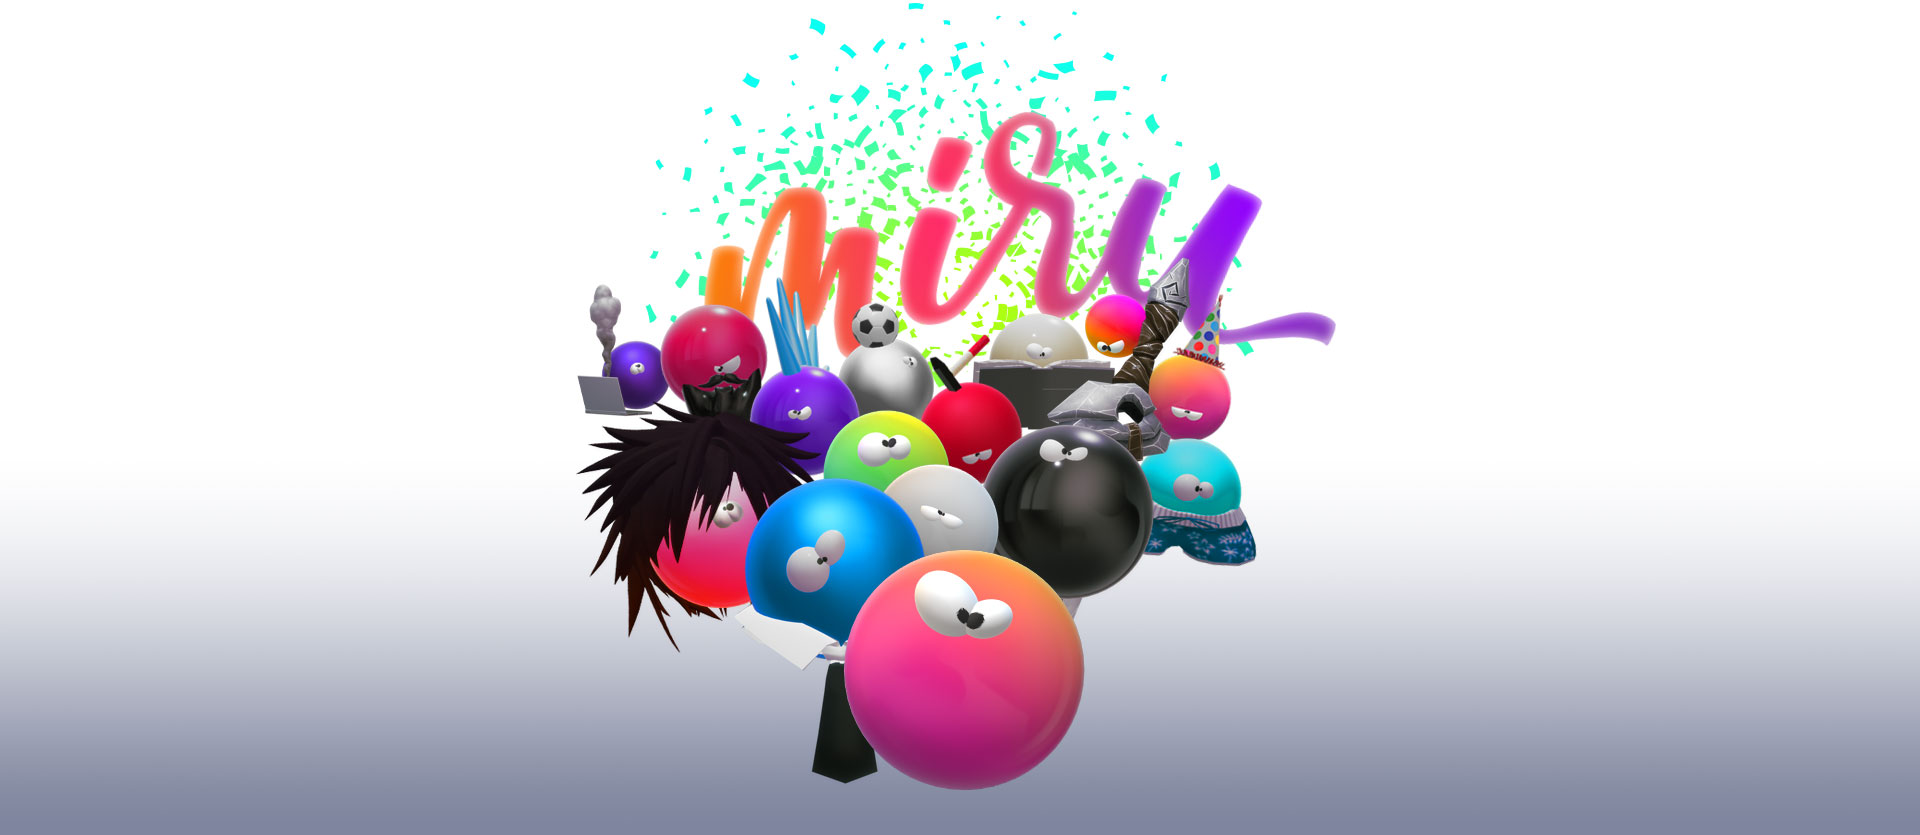
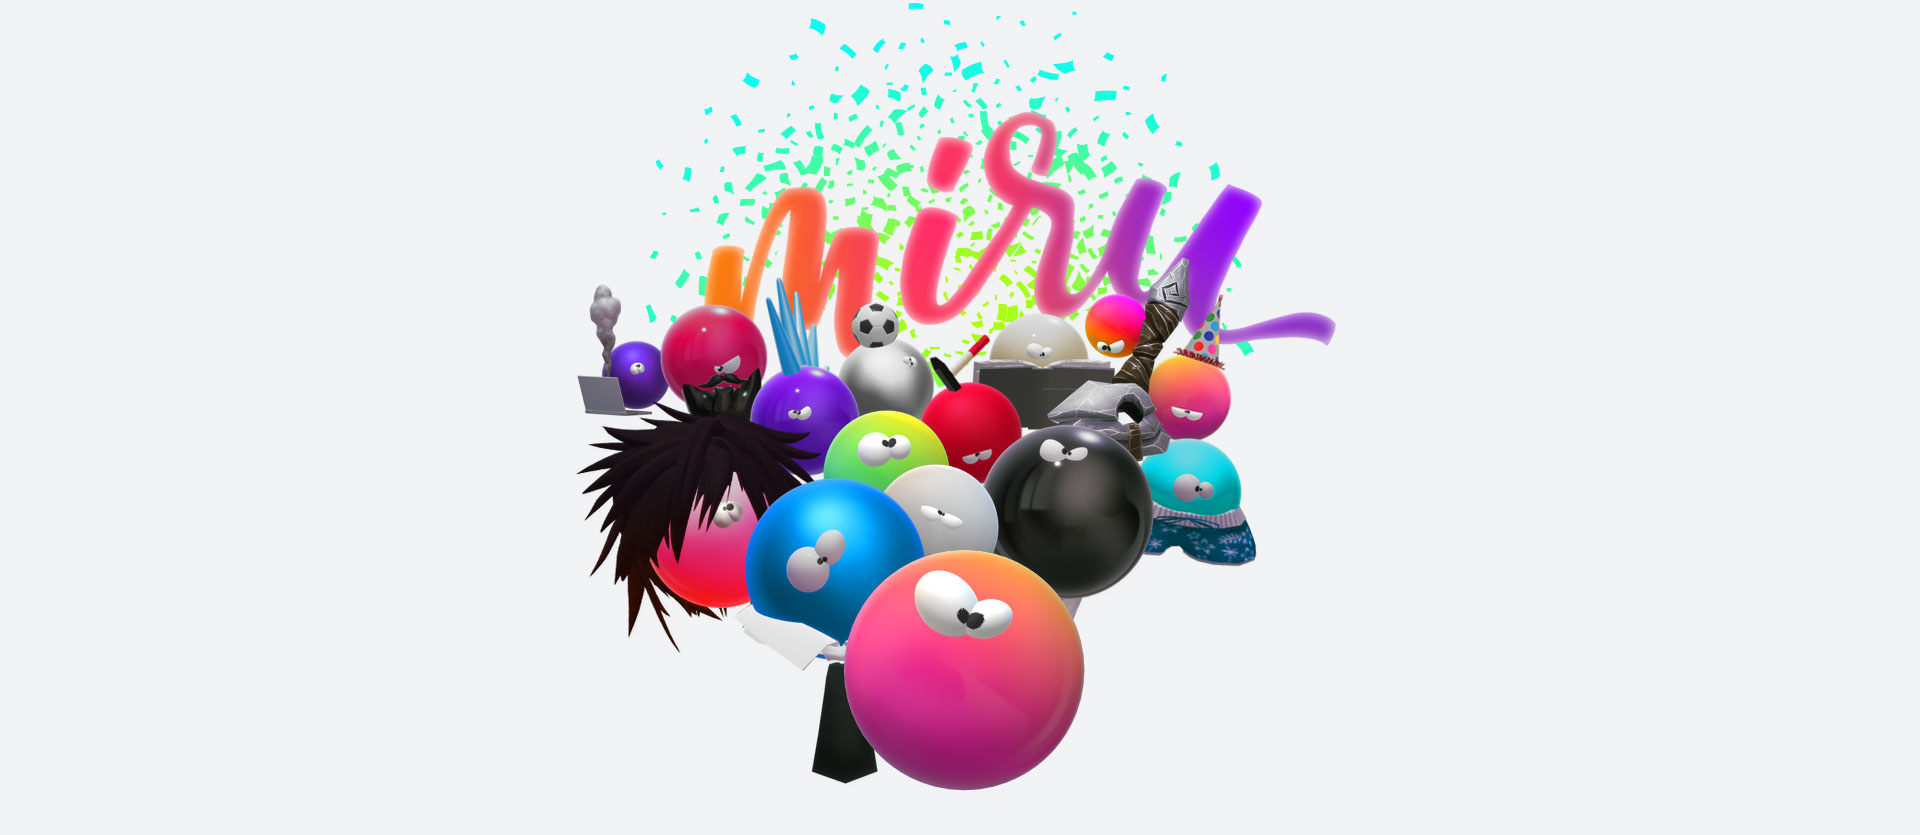
looq fixes + main fixes

Changed region(s): [[0.0, 0.7162, 1.0, 1.0]]

diff --git a/index.html b/index.html
@@ -106,19 +106,19 @@
 				<a id="section-ux" class="marker  -uxMarker"></a>
 
 				<a class="gallery-item" href="project/looq/index.html">
-					<img src="project/looq/cover.jpg" alt="qbee">
+					<img src="project/looq/cover.jpg" alt="looq">
 					<span class="overlay">
 						<h2>looq</h2>
 					</span>
-					<span class="bg" style="background-color:#fff;"></span>
+					<span class="bg" style="background-color:#f8f8fa;"></span>
 				</a>
 
 				<a class="gallery-item" href="project/aerolite/index.html">
-					<img src="project/aerolite/cover.jpg" alt="qbee">
+					<img src="project/aerolite/cover.jpg" alt="aerolite">
 					<span class="overlay">
 						<h2>aerolite</h2>
 					</span>
-					<span class="bg" style="background-color:#fff;"></span>
+					<span class="bg" style="background-color:#949eaa;"></span>
 				</a>
 				<a class="gallery-item" href="ux/qbee/index.html">
 					<img src="ux/qbee/cover.jpg" alt="qbee">

diff --git a/project/looq/index.html b/project/looq/index.html
@@ -153,7 +153,7 @@
 				</div>
 				<div class="gallery-item">
 					<img src="miru-party.jpg" alt="miru party!">
-					<span class="bg" style="background-color:#fff;"></span>
+					<span class="bg" style="background-color:#f2f3f5;"></span>
 				</div>
 				<div class="gallery-item">
 					<img src="miru-states.jpg" alt="miru states">

diff --git a/css/style.css b/css/style.css
@@ -1222,3 +1222,10 @@ body.offcanvas {
 
 .js .animate-box {
   opacity: 0; }
+
+.-cover {
+  width: 100%;
+  height: 700px;
+  background-size: contain;
+  background-position: center;
+  background-repeat: no-repeat; }

diff --git a/sass/style.scss b/sass/style.scss
@@ -1567,3 +1567,11 @@ body {
 		opacity: 0;
 	}
 }
+
+.-cover {
+	width: 100%;
+	height: 700px;
+	background-size: contain;
+	background-position: center;
+	background-repeat: no-repeat;
+}
